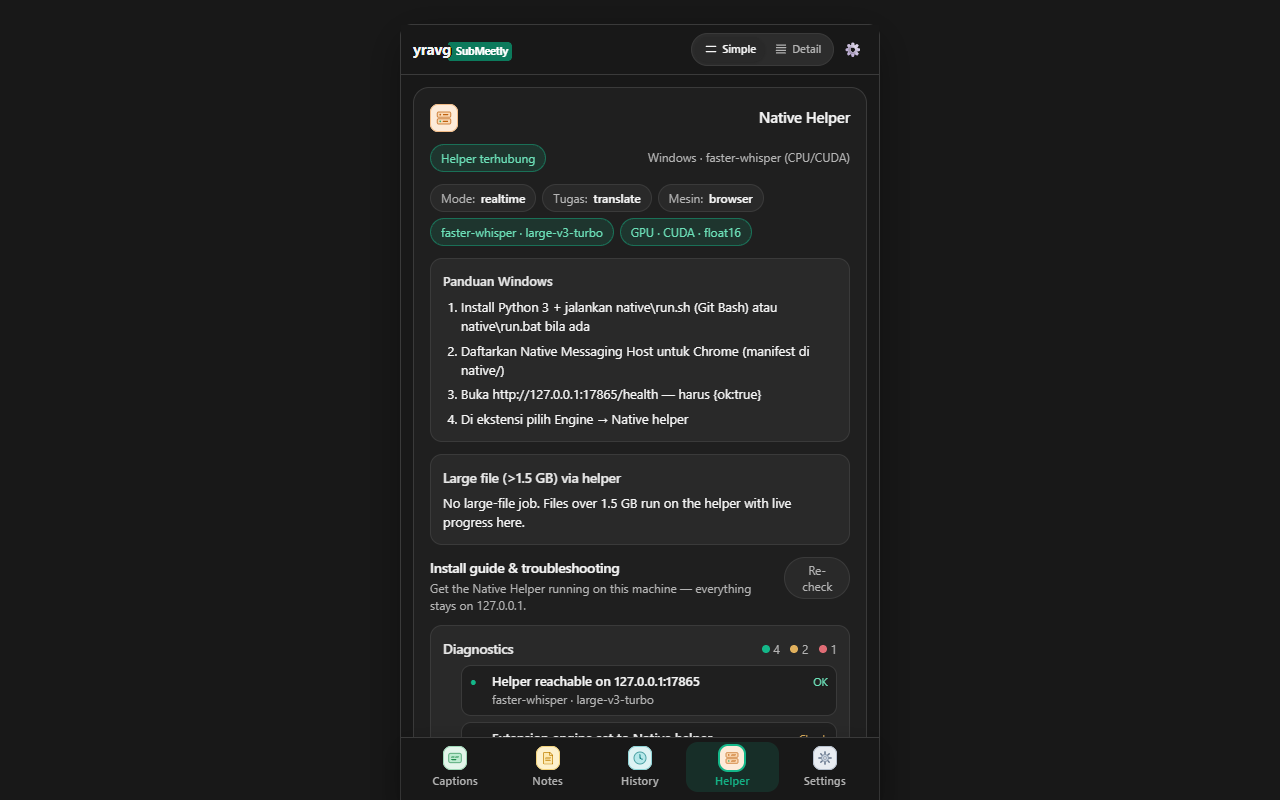
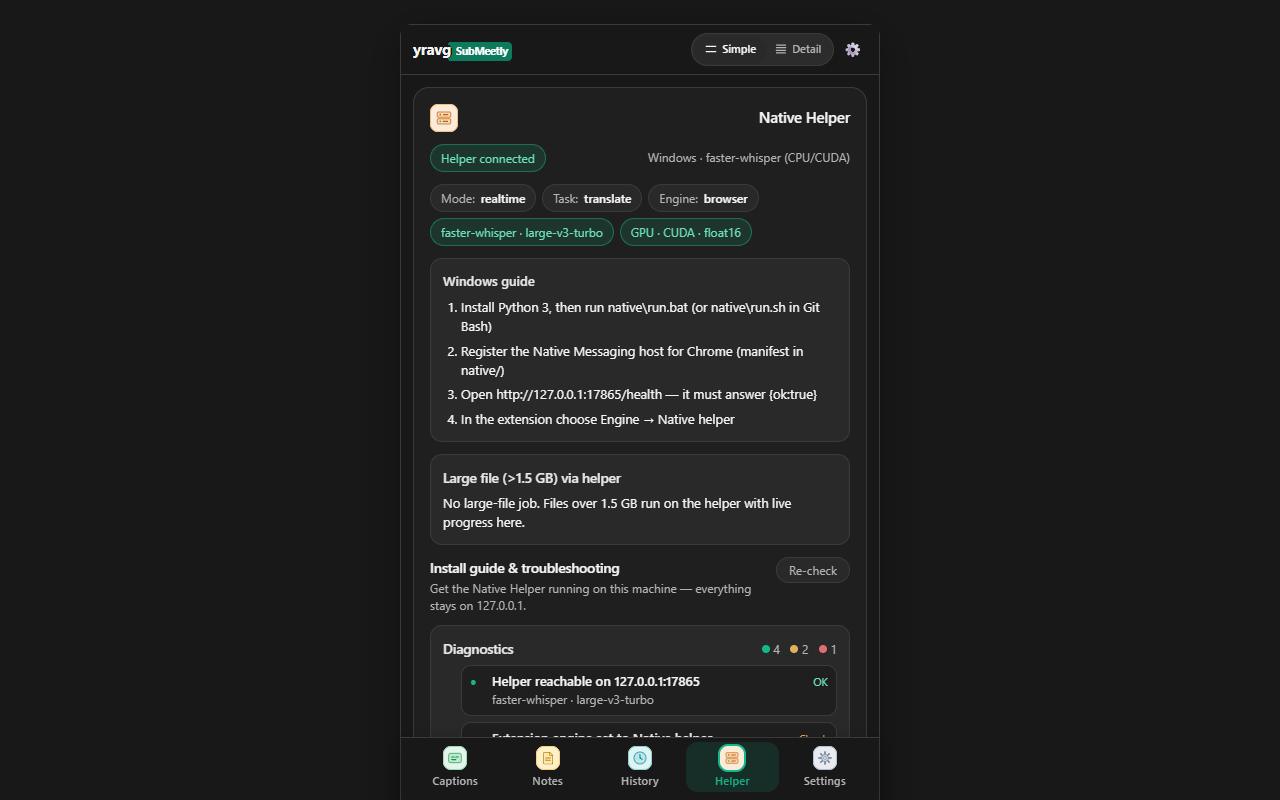
Helper card follows the UI language; Re-check stays on one line
The Native Helper card hardcoded Indonesian (connected pill, Mode/Task/Engine
labels, disconnect banner, guide title and every OS step), so the English
store screenshot showed Indonesian. Strings now come from i18n (en/zh/id);
OS steps carry en and id, zh falls back to English. guideFor(os, lang)
resolves one guide. Test: test/helper-status-i18n.test.mjs (20, failed first).

Also: the Re-check button wrapped to two lines at 480 px; guide.html title
renamed to yravgSubMeetly; store shot 03 recaptured. npm test 427/410 pass,
0 fail, 17 skipped; npm run qa 19/19.

PRD: BRAND-001, UI-003

diff --git a/src/lib/helper-status.js b/src/lib/helper-status.js
@@ -13,45 +13,77 @@ export function detectOs() {
   return 'unknown';
 }
 
+// Steps per UI language; `guideFor` falls back to English (zh reads commands and paths fine in English).
 export const OS_GUIDES = {
   macos: {
     label: 'macOS',
     engine: 'mlx-whisper (Apple Silicon) / faster-whisper',
-    steps: [
-      'Jalankan ./scripts/ensure-native.sh atau native/run.sh',
-      'Pastikan Native Messaging Host com.yraveragesubmin.helper terpasang',
-      'Side Panel → Settings → Engine → Native helper',
-    ],
+    steps: {
+      en: [
+        'Run ./scripts/ensure-native.sh or native/run.sh',
+        'Make sure the Native Messaging host com.yraveragesubmin.helper is installed',
+        'Side Panel → Settings → Engine → Native helper',
+      ],
+      id: [
+        'Jalankan ./scripts/ensure-native.sh atau native/run.sh',
+        'Pastikan Native Messaging Host com.yraveragesubmin.helper terpasang',
+        'Side Panel → Settings → Engine → Native helper',
+      ],
+    },
   },
   windows: {
     label: 'Windows',
     engine: 'faster-whisper (CPU/CUDA)',
-    steps: [
-      'Install Python 3 + jalankan native\\run.sh (Git Bash) atau native\\run.bat bila ada',
-      'Daftarkan Native Messaging Host untuk Chrome (manifest di native/)',
-      'Buka http://127.0.0.1:17865/health — harus {ok:true}',
-      'Di ekstensi pilih Engine → Native helper',
-    ],
+    steps: {
+      en: [
+        'Install Python 3, then run native\\run.bat (or native\\run.sh in Git Bash)',
+        'Register the Native Messaging host for Chrome (manifest in native/)',
+        'Open http://127.0.0.1:17865/health — it must answer {ok:true}',
+        'In the extension choose Engine → Native helper',
+      ],
+      id: [
+        'Install Python 3 + jalankan native\\run.sh (Git Bash) atau native\\run.bat bila ada',
+        'Daftarkan Native Messaging Host untuk Chrome (manifest di native/)',
+        'Buka http://127.0.0.1:17865/health — harus {ok:true}',
+        'Di ekstensi pilih Engine → Native helper',
+      ],
+    },
   },
   linux: {
     label: 'Linux',
     engine: 'faster-whisper (CPU/CUDA)',
-    steps: [
-      'python3 -m venv di native/ lalu ./native/run.sh',
-      'Pasang host Native Messaging (JSON di ~/.config/google-chrome/NativeMessagingHosts/)',
-      'Verifikasi curl -sf http://127.0.0.1:17865/health',
-      'Side Panel → Native helper',
-    ],
+    steps: {
+      en: [
+        'Create a venv with python3 -m venv in native/, then run ./native/run.sh',
+        'Install the Native Messaging host (JSON in ~/.config/google-chrome/NativeMessagingHosts/)',
+        'Check with curl -sf http://127.0.0.1:17865/health',
+        'Side Panel → Native helper',
+      ],
+      id: [
+        'python3 -m venv di native/ lalu ./native/run.sh',
+        'Pasang host Native Messaging (JSON di ~/.config/google-chrome/NativeMessagingHosts/)',
+        'Verifikasi curl -sf http://127.0.0.1:17865/health',
+        'Side Panel → Native helper',
+      ],
+    },
   },
   unknown: {
-    label: 'OS ini',
-    engine: 'faster-whisper atau mlx-whisper',
-    steps: [
-      'Ikuti README Native Helper',
-      'Pastikan port 17865 menjawab /health',
-    ],
+    label: { en: 'this OS', id: 'OS ini', zh: '此系统' },
+    engine: 'faster-whisper / mlx-whisper',
+    steps: {
+      en: ['Follow the Native Helper README', 'Make sure port 17865 answers /health'],
+      id: ['Ikuti README Native Helper', 'Pastikan port 17865 menjawab /health'],
+    },
   },
 };
+
+const pick = (v, lang) => (typeof v === 'string' ? v : v[lang] || v.en);
+
+/** The guide for one OS in one UI language: { label, engine, steps[] }. */
+export function guideFor(os, lang = 'en') {
+  const g = OS_GUIDES[os] || OS_GUIDES.unknown;
+  return { label: pick(g.label, lang), engine: g.engine, steps: pick(g.steps, lang) };
+}
 
 /** Nama unduhan seragam lintas OS (tanpa karakter bermasalah). */
 export function exportBasename(title, kind) {

diff --git a/src/helper-status.js b/src/helper-status.js
@@ -1,7 +1,7 @@
 /**
  * Kartu status helper lintas platform + indikator mode + berkas besar (stub UI).
  */
-import { detectOs, OS_GUIDES, STUB_LARGE_FILE, formatBytes } from './lib/helper-status.js';
+import { detectOs, guideFor, STUB_LARGE_FILE, formatBytes } from './lib/helper-status.js';
 import { formatSrt, formatVtt, formatTxt } from './lib/transcript-cache.js';
 import { STUB_TRANSCRIPT } from './lib/notes-stub.js';
 import { I18N } from './lib/i18n.js';
@@ -41,7 +41,7 @@ function escapeHtml(s) {
  */
 export function renderHelperStatusCard(root, opts) {
   const os = opts.os || detectOs();
-  const guide = OS_GUIDES[os] || OS_GUIDES.unknown;
+  const guide = guideFor(os, opts.lang || 'en');
   const online = !!opts.online;
   const health = opts.health || null;
   const engine = opts.engine || 'browser';
@@ -78,15 +78,15 @@ export function renderHelperStatusCard(root, opts) {
     <div class="helper-status" data-os="${escapeHtml(os)}">
       <div class="notes-status-row">
         <span class="notes-pill ${online ? 'ready' : 'error'}" id="helper-conn-pill">
-          ${online ? 'Helper terhubung' : 'Helper terputus'}
+          ${escapeHtml(tt(online ? 'hsConnected' : 'hsDisconnected'))}
         </span>
         <span class="notes-meta">${escapeHtml(guide.label)} · ${escapeHtml(guide.engine)}</span>
       </div>
 
       <div class="helper-indicators" id="helper-mode-indicators">
-        <span class="notes-pill idle">Mode: <strong>${escapeHtml(mode)}</strong></span>
-        <span class="notes-pill idle">Tugas: <strong>${escapeHtml(task)}</strong></span>
-        <span class="notes-pill idle">Mesin: <strong>${escapeHtml(engine)}</strong></span>
+        <span class="notes-pill idle">${escapeHtml(tt('hsMode'))}: <strong>${escapeHtml(mode)}</strong></span>
+        <span class="notes-pill idle">${escapeHtml(tt('hsTask'))}: <strong>${escapeHtml(task)}</strong></span>
+        <span class="notes-pill idle">${escapeHtml(tt('hsEngine'))}: <strong>${escapeHtml(engine)}</strong></span>
         ${
           health
             ? `<span class="notes-pill ready">${escapeHtml(health.engine || 'asr')} · ${escapeHtml((health.model || '').split('/').pop() || '')}</span>`
@@ -102,12 +102,11 @@ export function renderHelperStatusCard(root, opts) {
       </div>
 
       <div id="helper-disconnect-banner" class="helper-banner ${online || engine !== 'native' ? 'hidden' : ''}">
-        <strong>Helper terputus</strong> — subtitel tab lewat mesin native tidak bisa berjalan.
-        Beralih ke Browser di Settings, atau ikuti panduan ${escapeHtml(guide.label)} di bawah.
+        <strong>${escapeHtml(tt('hsDisconnected'))}</strong> — ${escapeHtml(tt('hsDisconnectedBody', guide.label))}
       </div>
 
       <div class="notes-block">
-        <h3>Panduan ${escapeHtml(guide.label)}</h3>
+        <h3>${escapeHtml(tt('hsGuideTitle', guide.label))}</h3>
         <ol class="helper-steps">
           ${guide.steps.map((s) => `<li>${escapeHtml(s)}</li>`).join('')}
         </ol>

diff --git a/src/lib/i18n.js b/src/lib/i18n.js
@@ -289,6 +289,13 @@ const en = {
   lfStage_cancelled: 'Cancelled',
   lfStage_done: 'Done',
   lfStage_error: 'Failed',
+  hsConnected: 'Helper connected',
+  hsDisconnected: 'Helper disconnected',
+  hsMode: 'Mode',
+  hsTask: 'Task',
+  hsEngine: 'Engine',
+  hsDisconnectedBody: (os) => `tab subtitles on the native engine cannot run. Switch to Browser in Settings, or follow the ${os} guide below.`,
+  hsGuideTitle: (os) => `${os} guide`,
   lfTitle: 'Large file (>1.5 GB) via helper',
   lfIdle: 'No large-file job. Files over 1.5 GB run on the helper with live progress here.',
   lfElapsed: (s) => `${Math.floor(s / 60)}m ${s % 60}s elapsed`,
@@ -586,6 +593,13 @@ const zh = {
   lfStage_cancelled: '已取消',
   lfStage_done: '完成',
   lfStage_error: '失败',
+  hsConnected: '助手已连接',
+  hsDisconnected: '助手未连接',
+  hsMode: '模式',
+  hsTask: '任务',
+  hsEngine: '引擎',
+  hsDisconnectedBody: (os) => `原生引擎的标签页字幕无法运行。请在设置中切换到浏览器，或按照下方的 ${os} 指南操作。`,
+  hsGuideTitle: (os) => `${os} 指南`,
   lfTitle: '大文件（>1.5 GB）经助手处理',
   lfIdle: '没有大文件任务。超过 1.5 GB 的文件在助手上运行，进度显示在此处。',
   lfElapsed: (s) => `已用 ${Math.floor(s / 60)} 分 ${s % 60} 秒`,
@@ -866,6 +880,13 @@ export const I18N = {
     lfStage_cancelled: 'Dibatalkan',
     lfStage_done: 'Selesai',
     lfStage_error: 'Gagal',
+    hsConnected: 'Helper terhubung',
+    hsDisconnected: 'Helper terputus',
+    hsMode: 'Mode',
+    hsTask: 'Tugas',
+    hsEngine: 'Mesin',
+    hsDisconnectedBody: (os) => `subtitel tab lewat mesin native tidak bisa berjalan. Beralih ke Browser di Settings, atau ikuti panduan ${os} di bawah.`,
+    hsGuideTitle: (os) => `Panduan ${os}`,
     lfTitle: 'Berkas besar (>1,5 GB) lewat helper',
     lfIdle: 'Tidak ada job berkas besar. Berkas di atas 1,5 GB diproses di helper dengan progres langsung di sini.',
     lfElapsed: (s) => `${Math.floor(s / 60)}m ${s % 60}d berjalan`,

diff --git a/test/studio.js b/test/studio.js
@@ -7,7 +7,7 @@ import {
   simulateFallback,
 } from './studio-lib.js';
 import { generateSrt, generateVtt, generateTxt } from './studio-export.js';
-import { exportBasename, detectOs, OS_GUIDES } from '../src/lib/helper-status.js';
+import { exportBasename, detectOs, guideFor } from '../src/lib/helper-status.js';
 import { saveExportFile } from '../src/lib/export.js';
 
 const $ = (id) => document.getElementById(id);
@@ -119,7 +119,7 @@ function setEngine(e, note = '') {
 async function probeHelper() {
   const pill = $('helper-pill');
   const os = detectOs();
-  const guide = OS_GUIDES[os] || OS_GUIDES.unknown;
+  const guide = guideFor(os, 'id');
   let online = false;
   let health = null;
   try {

diff --git a/test/guide.html b/test/guide.html
@@ -3,7 +3,7 @@
   <head>
     <meta charset="utf-8" />
     <meta name="viewport" content="width=device-width, initial-scale=1" />
-    <title>Panduan pengguna — yraverageSubMin</title>
+    <title>User guide — yravgSubMeetly</title>
 <link rel="stylesheet" href="/dist/tokens.css" />
         <link rel="stylesheet" href="/dist/sidepanel.css" />
     <style>

diff --git a/src/notes-panel.css b/src/notes-panel.css
@@ -502,6 +502,11 @@
   justify-content: space-between;
   gap: var(--space-2);
 }
+/* The Re-check label wrapped to two lines on a 480 px panel. */
+.hg-head > .mini-btn {
+  flex: none;
+  white-space: nowrap;
+}
 .hg-title {
   font-size: var(--text-md);
   font-weight: var(--font-semibold);
